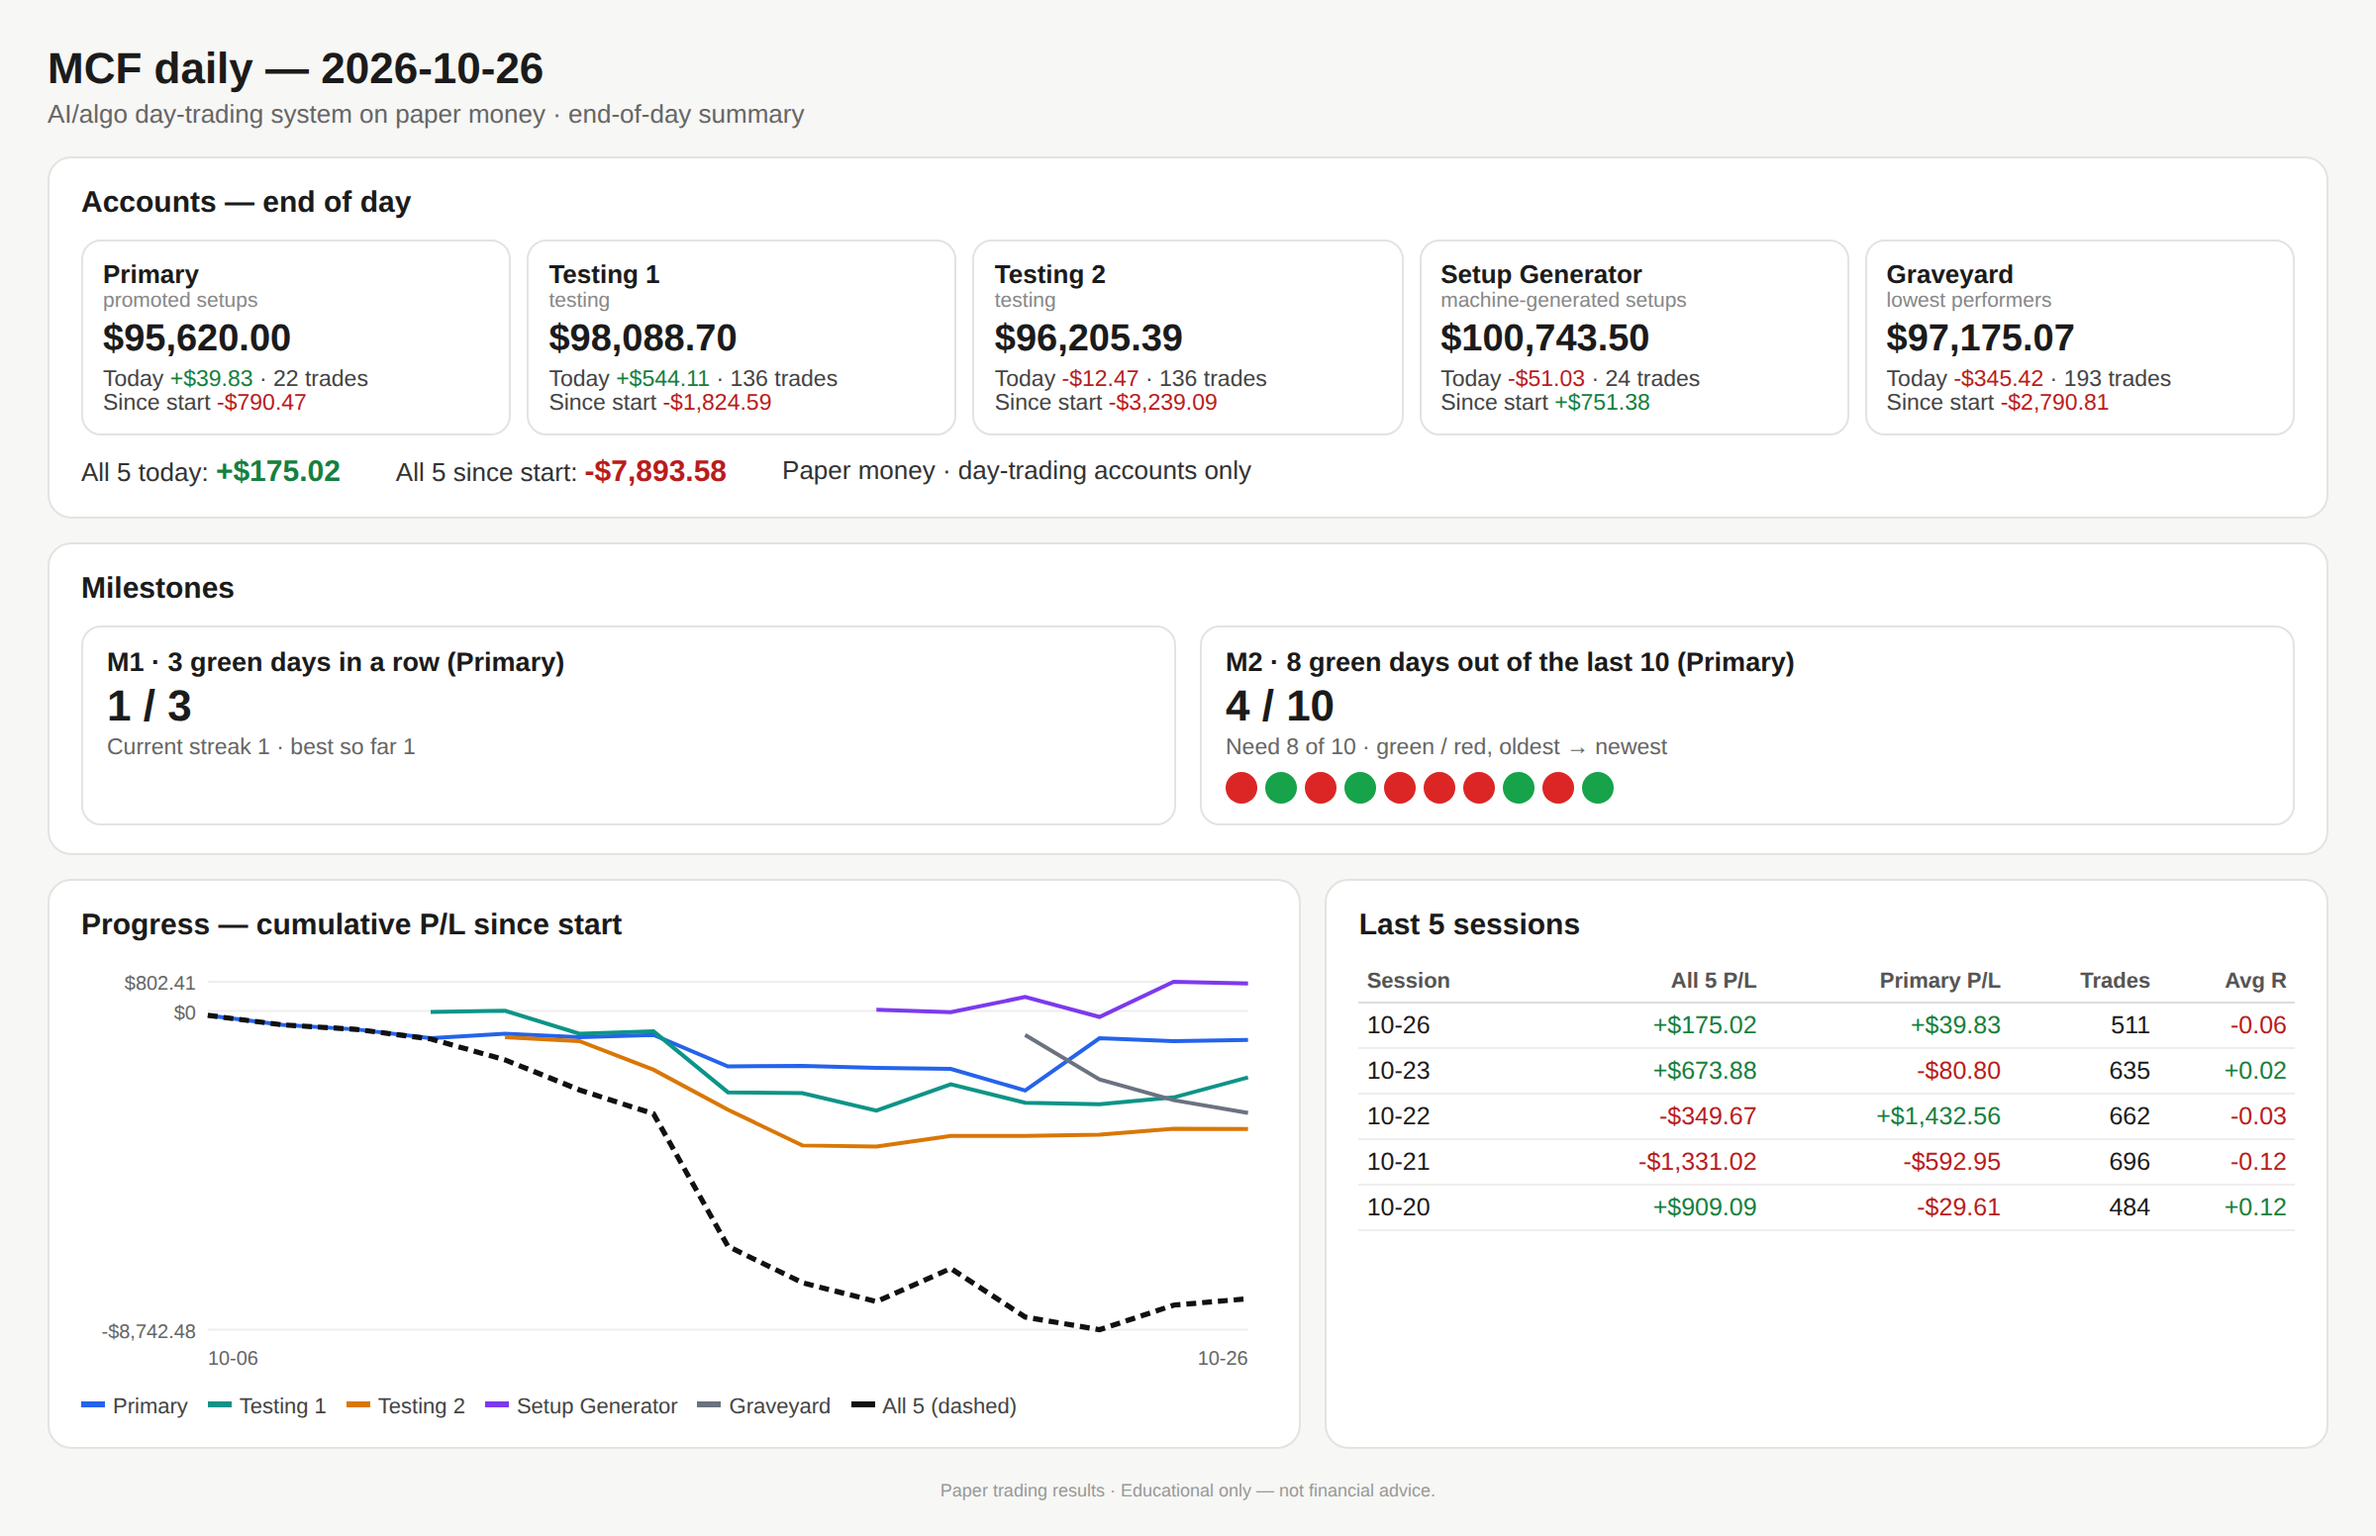
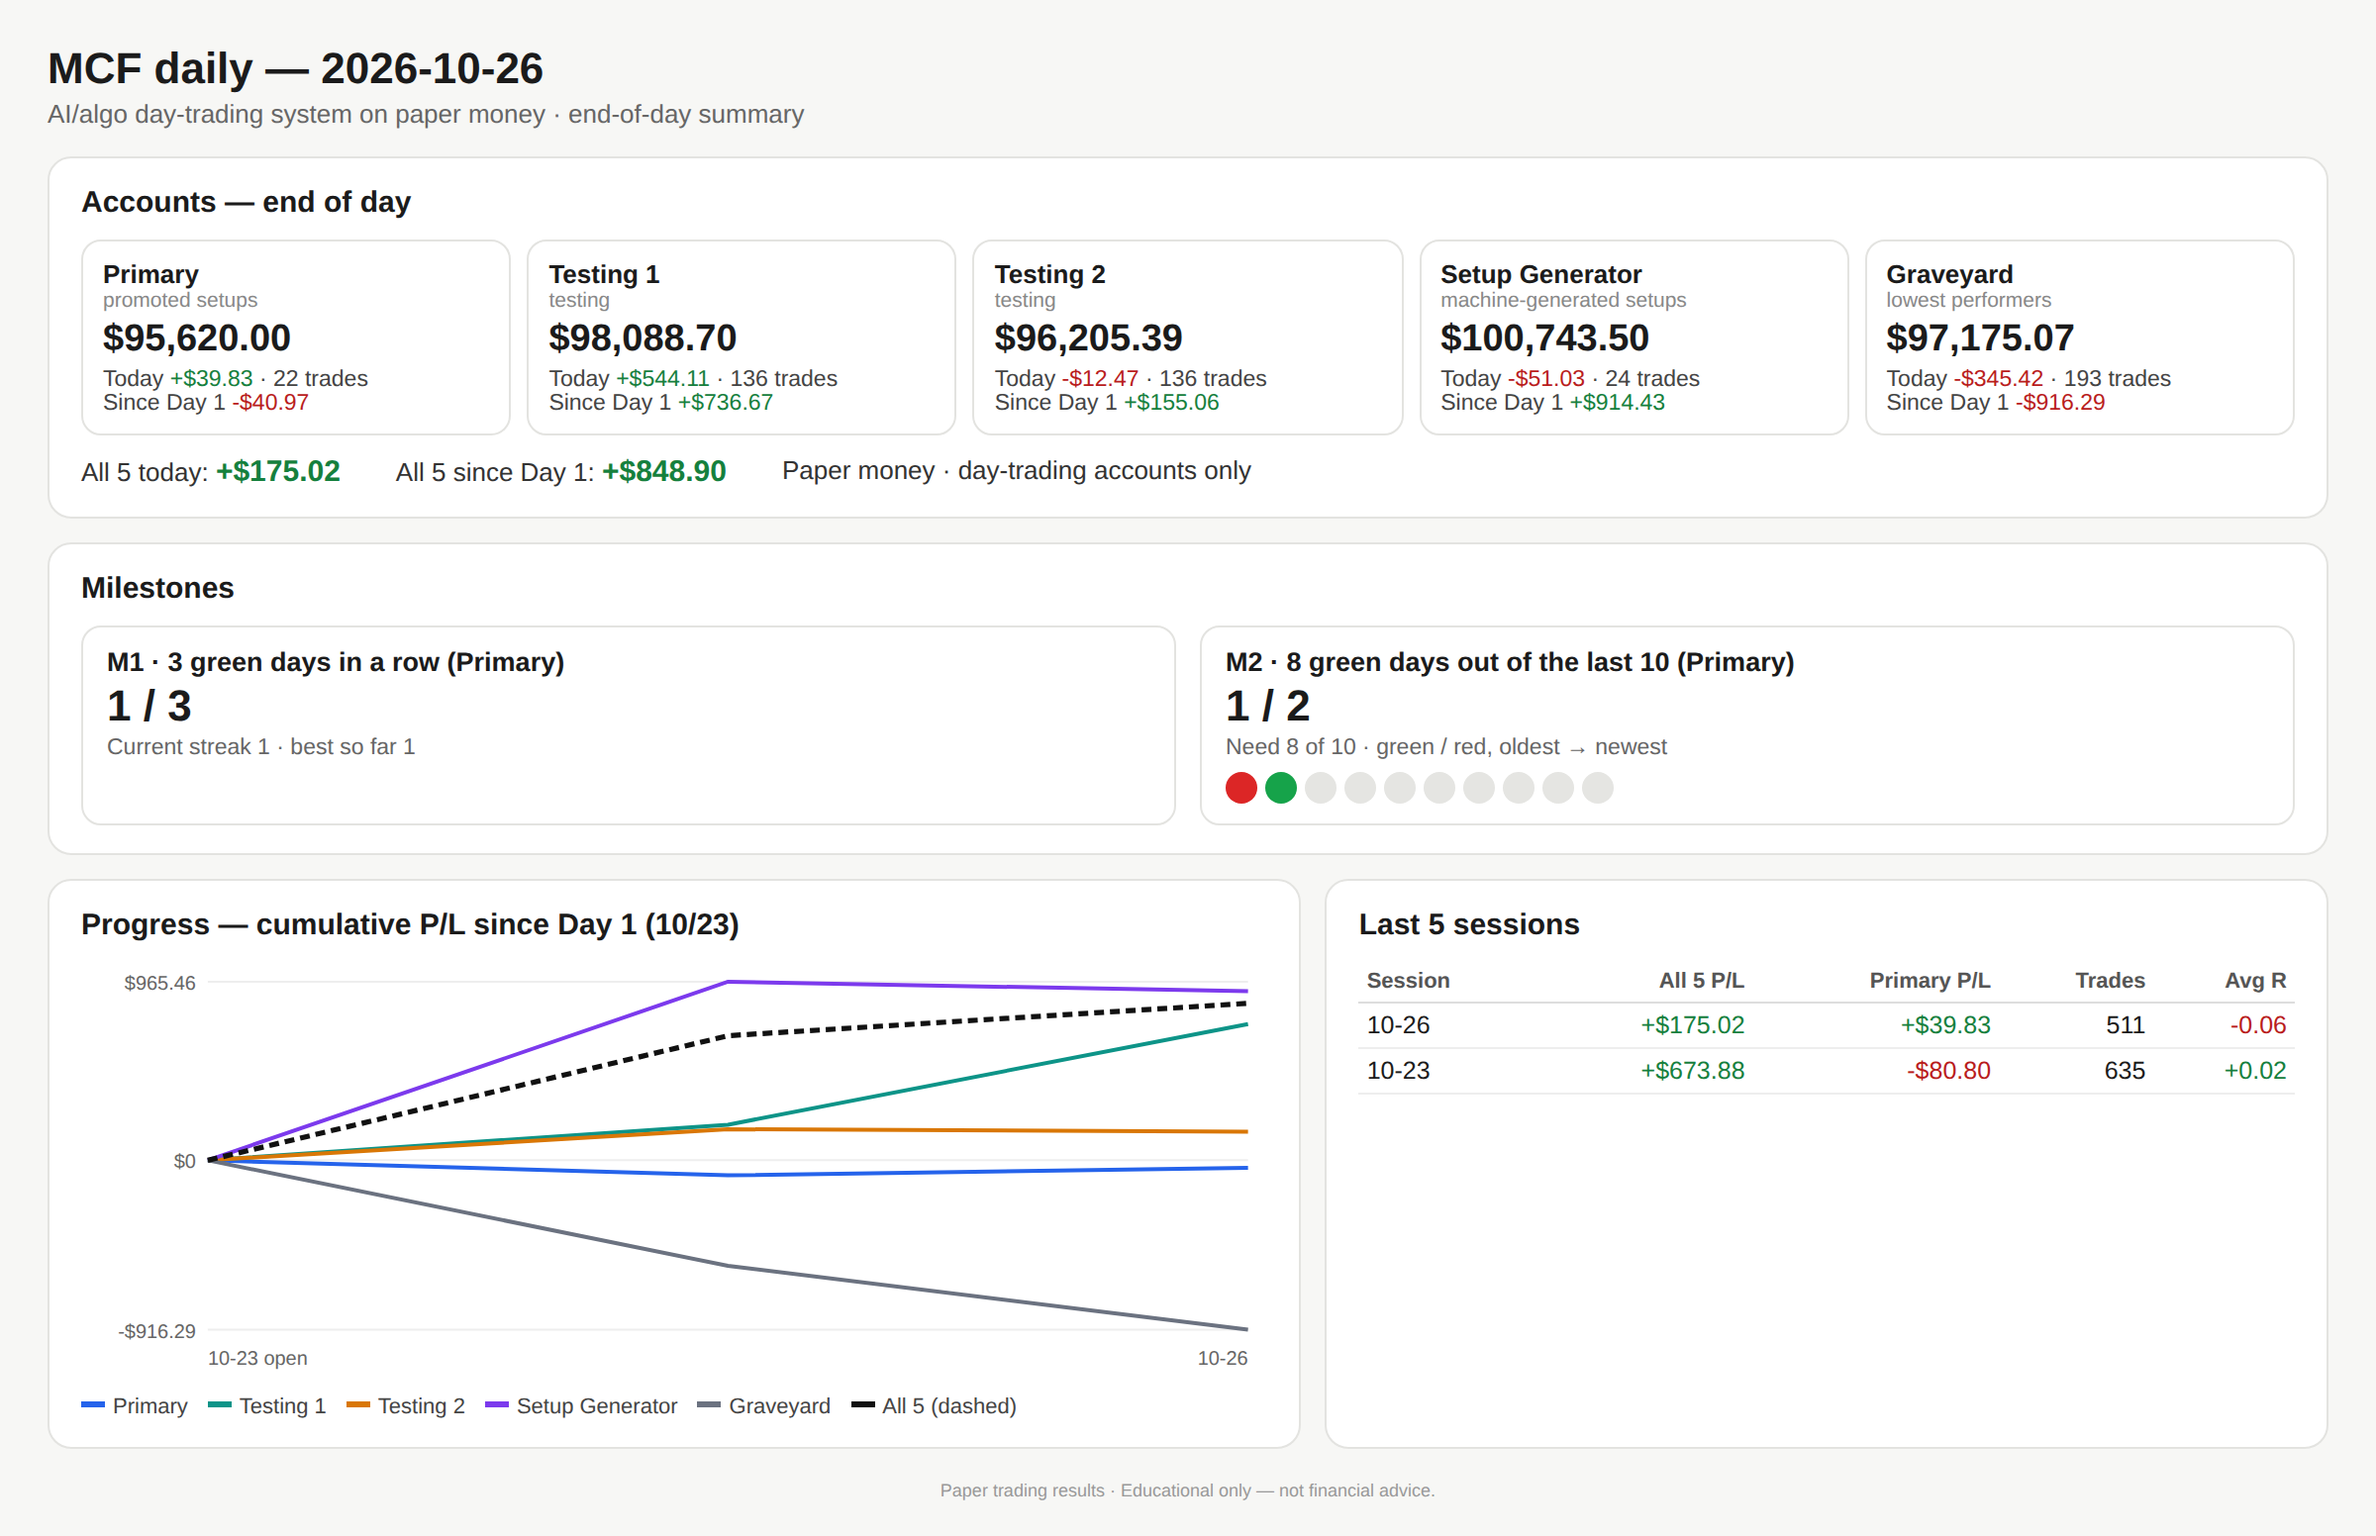
Daily post: stats from Day 1 (2026-10-23, owner) - since-Day-1 P/L, milestones, chart from $0, last sessions; Day 2 post regenerated
Balances stay the actual account equity. Facts' track-record counts (sessions/trades since 10-06) unchanged.

Claude-Session: https://claude.ai/code/session_01CMQwXCu5dKxniHABifLz7E

diff --git a/mcf/report/daily_post.py b/mcf/report/daily_post.py
@@ -5,7 +5,7 @@ and reports/scorecard.json, docs/live/assignments.json / setup_names.json / regi
 (the long-hold S6 account is left out, owner 2026-10-25):
 
   1-today.png         EOD balance, today's and since-start P/L per account, the owner's milestones (M1: Primary 3 green
-                      days in a row; M2: 8 green of the last 10), cumulative P/L chart since start, last-5-sessions table
+                      days in a row; M2: 8 green of the last 10), cumulative P/L chart, last-5-sessions table - all from Day 1 (DAY1)
   2-top2.png          the day's top two setups explained in plain words (words from --top2 JSON, written by Claude each
                       night; without it the setup's own one-line description is used)
   3-leaderboard.png   setup leaderboard, top 10 (all accounts merged, Setup Generator excluded), same columns and rank as
@@ -33,6 +33,7 @@ ACCOUNTS = [("primary", "Primary", "mcf-data", "promoted setups"), ("testing", "
             ("testing2", "Testing 2", "mcf-data-testing2", "testing"), ("gen", "Setup Generator", "mcf-data-gen", "machine-generated setups"),
             ("graveyard", "Graveyard", "mcf-data-graveyard", "lowest performers")]   # day-trading only (no S6)
 MILESTONES = (("M1", "3 green days in a row (Primary)"), ("M2", "8 green days out of the last 10 (Primary)"))
+DAY1 = "2026-10-23"   # owner 2026-10-26: the post's stats (P/L, milestones, chart, last sessions) start at Day 1
 LB_ACCOUNTS = ("primary", "testing", "testing2", "graveyard")
 CHROME = ["/opt/pw-browsers/chromium_headless_shell-1194/chrome-linux/headless_shell", "/opt/pw-browsers/chromium"]
 
@@ -56,15 +57,19 @@ def fetch():
 
 
 # ---------------------------------------------------------------- data
-def accounts(date: str) -> list[dict]:
+def accounts(date: str, since: str = DAY1) -> list[dict]:
+    """Per account: balance (actual), today's P/L, and P/L + history from `since` (Day 1) on; full_history keeps all."""
     out = []
     for k, name, br, kind in ACCOUNTS:
         s = _show(br, "status.json") or {}
         t, ss = s.get("today") or {}, s.get("since_start") or {}
         if s.get("session_date") != date:
             t = next((h for h in s.get("history") or [] if h.get("date") == date), {})
+        full = s.get("history") or []
+        hist = [h for h in full if since <= h.get("date", "") <= date]
         out.append(dict(k=k, name=name, kind=kind, equity=(s.get("account") or {}).get("equity"), today=t.get("pnl"),
-                        trades=t.get("trades"), since=ss.get("pnl"), history=s.get("history") or []))
+                        trades=t.get("trades"), since=sum((h.get("pnl") or 0) for h in hist),
+                        history=hist, full_history=full))
     return out
 
 
@@ -232,7 +237,8 @@ def facts(accts: list[dict]) -> dict:
             slip += ss["avg_entry_slip_bps"] * ss["trades"]; n += ss["trades"]
     pr = next(a for a in accts if a["k"] == "primary")
     return dict(live=len(live) - len(gen), gen=len(gen), rejected=rejected, slip=(slip / n if n else None), trades=n,
-                sessions=len(_sessions(pr, "9999")), start=(pr.get("history") or [{}])[0].get("date"))
+                sessions=len([x for x in pr.get("full_history") or [] if x.get("trades")]),
+                start=(pr.get("full_history") or [{}])[0].get("date"))
 
 
 # ---------------------------------------------------------------- render
@@ -329,8 +335,9 @@ def _chart(accts: list[dict], date: str) -> str:
                 started = True
                 c += by[d]
             pts.append(c if started else None)
-        series[a["k"]] = pts
-    tot = [sum(series[k][i] or 0 for k in series) for i in range(len(days))]
+        series[a["k"]] = [0.0 if pts and pts[0] is not None else None] + pts   # every line starts at $0 (Day 1 open)
+    days = ["start"] + days
+    tot =[sum(series[k][i] or 0 for k in series) for i in range(len(days))]
     vals = [v for p in series.values() for v in p if v is not None] + tot + [0]
     lo, hi = min(vals), max(vals)
     x = lambda i: P + i * (W - P - 10) / max(1, len(days) - 1)
@@ -348,7 +355,7 @@ def _chart(accts: list[dict], date: str) -> str:
     lines += f'<path d="{path(tot)}" fill="none" stroke="#111" stroke-width="2.6" stroke-dasharray="5 3"/>'
     ticks = "".join(f'<text x="{P - 6}" y="{y(v) + 4:.1f}" text-anchor="end" font-size="10" fill="#666">{_money(v, False).replace(".00", "") if abs(v) >= 1 else "$0"}</text>'
                     f'<line x1="{P}" x2="{W - 10}" y1="{y(v):.1f}" y2="{y(v):.1f}" stroke="#eee"/>' for v in (hi, 0, lo))
-    xl = f'<text x="{P}" y="{H - 6}" font-size="10" fill="#666">{days[0][5:]}</text><text x="{W - 10}" y="{H - 6}" font-size="10" fill="#666" text-anchor="end">{days[-1][5:]}</text>'
+    xl = f'<text x="{P}" y="{H - 6}" font-size="10" fill="#666">{days[1][5:]} open</text><text x="{W - 10}" y="{H - 6}" font-size="10" fill="#666" text-anchor="end">{days[-1][5:]}</text>'
     leg = "".join(f'<span><i style="background:{COLORS[a["k"]]}"></i>{_e(a["name"])}</span>' for a in accts) + '<span><i style="background:#111"></i>All 5 (dashed)</span>'
     return f'<svg viewBox="0 0 {W} {H}" width="100%">{ticks}{lines}{xl}</svg><div class="leg">{leg}</div>'
 
@@ -371,13 +378,13 @@ def html_today(date: str, accts: list[dict]) -> str:
     cards = []
     for a in accts:
         l1 = f'Today <span class="{_cls(a["today"])}">{_money(a["today"])}</span> · {a["trades"] if a["trades"] is not None else "—"} trades'
-        l2 = f'Since start <span class="{_cls(a.get("since"))}">{_money(a.get("since"))}</span>'
+        l2 = f'Since Day 1 <span class="{_cls(a.get("since"))}">{_money(a.get("since"))}</span>'
         cards.append(f'<div class="acc"><div class="n">{_e(a["name"])}</div><div class="ty">{_e(a["kind"])}</div>'
                      f'<div class="eq">{_money(a["equity"], sign=False)}</div><div class="ln">{l1}</div><div class="ln">{l2}</div></div>')
     today = sum((a["today"] or 0) for a in accts)
     since = sum((a.get("since") or 0) for a in accts)
     strip = (f'<div class="strip"><div>All 5 today: <b class="{_cls(today)}">{_money(today)}</b></div>'
-             f'<div>All 5 since start: <b class="{_cls(since)}">{_money(since)}</b></div><div>Paper money · day-trading accounts only</div></div>')
+             f'<div>All 5 since Day 1: <b class="{_cls(since)}">{_money(since)}</b></div><div>Paper money · day-trading accounts only</div></div>')
     m = milestones(accts[0], date)
     dots = "".join(f'<div class="dot {"g" if g else "r"}" title="{d}"></div>' for d, g in m["dots"]) + "".join('<div class="dot"></div>' for _ in range(10 - len(m["dots"])))
     ms = (f'<div class="ms"><div class="m"><div class="t">M1 · {MILESTONES[0][1]}{"<span class=done>REACHED</span>" if m["m1"] else ""}</div>'
@@ -386,7 +393,7 @@ def html_today(date: str, accts: list[dict]) -> str:
           f'<div class="v">{m["g10"]} / {m["n10"]}</div><div class="d">Need 8 of 10 · green / red, oldest → newest</div><div class="dots">{dots}</div></div></div>')
     return page(f'<div class="card"><h2>Accounts — end of day</h2><div class="accts accts5">{"".join(cards)}</div>{strip}</div>'
                 f'<div class="card"><h2>Milestones</h2>{ms}</div>'
-                f'<div class="two"><div class="card"><h2>Progress — cumulative P/L since start</h2>{_chart(accts, date)}</div>'
+                f'<div class="two"><div class="card"><h2>Progress — cumulative P/L since Day 1 (10/23)</h2>{_chart(accts, date)}</div>'
                 f'<div class="card"><h2>Last 5 sessions</h2>{_last5(accts, date)}</div></div>',
                 f"MCF daily — {date}", "AI/algo day-trading system on paper money · end-of-day summary")
 
@@ -451,8 +458,8 @@ def facts_text(date: str, fx: dict, accts: list[dict] | None = None) -> str:
         g = sum((x.get("pnl") or 0) > 0 for x in h)
         today = sum((a["today"] or 0) for a in accts)
         since = sum((a.get("since") or 0) for a in accts)
-        lines += [f"- Today, 5 day-trading accounts: {_money(today)} · since start: {_money(since)}",
-                  f"- Primary: today {_money(pr['today'])} · since start {_money(pr.get('since'))} · green days {g} of {len(h)}",
+        lines += [f"- Today, 5 day-trading accounts: {_money(today)} · since Day 1 (10/23): {_money(since)}",
+                  f"- Primary: today {_money(pr['today'])} · since Day 1 {_money(pr.get('since'))} · green days {g} of {len(h)}",
                   f"- Milestones: M1 (3 green in a row) {min(m['run'], 3)}/3 · M2 (8 of last 10 green) {m['g10']}/{m['n10']}"]
     ans = ["Quick answers",
            "- What AI? Claude (Opus 5.5) builds, tests and runs it. Code is Python.",
@@ -478,7 +485,7 @@ def post_text(date: str, accts: list[dict], top: list[dict], words: dict, day_n:
     bn = ((words.get(best["setup"]) or {}).get("title") or best["name"]) if best else "—"
     return (f"Day {day_n} – AI algo day-trading (paper)\n"
             f"Today: {_money(today).replace('.00', '')} across 5 day-trading accounts · Primary {_money(pr['today'])}\n"
-            f"Since start: {_money(since)} · Best setup today: {bn} ({_money(best['pnl']) if best else '—'})\n"
+            f"Since Day 1 (10/23): {_money(since)} · Best setup today: {bn} ({_money(best['pnl']) if best else '—'})\n"
             f"Milestones: M1 3 green in a row {min(m['run'], 3)}/3{' ✅' if m['m1'] else ''} · M2 8 of last 10 green {m['g10']}/{m['n10']}{' ✅' if m['m2'] else ''}\n"
             + (f"Changes before today's open: {changes.strip()}\n" if changes.strip() else "")
             + "(Quick facts + charts in pics) · Not financial advice\n")
